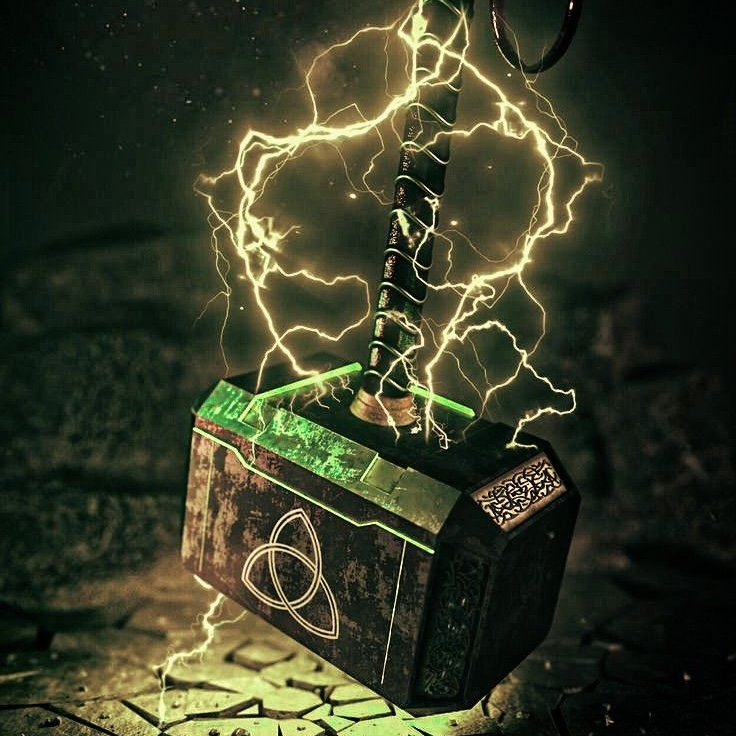
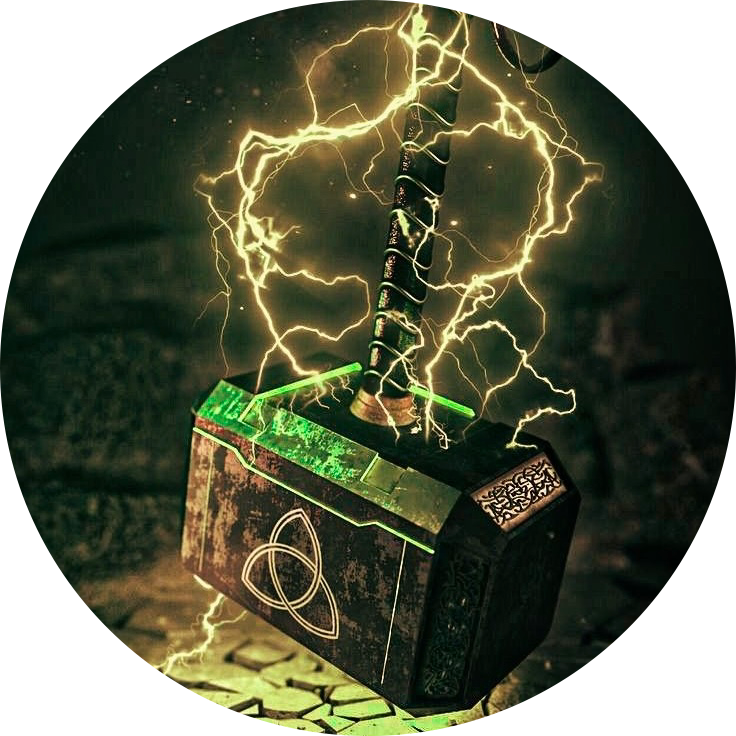
Add files via upload

diff --git a/app.py b/app.py
@@ -41,14 +41,6 @@ bg_base64 = base64.b64encode(buffered_bg.getvalue()).decode()
 # === LOGO ===
 logo_image = Image.open("banner_martello.jpg")
 
-# === CROP AUTOMATICO PER OTTENERE UN QUADRATO ===
-width, height = logo_image.size
-min_dim = min(width, height)
-left = (width - min_dim) // 2
-top = (height - min_dim) // 2
-right = (width + min_dim) // 2
-bottom = (height + min_dim) // 2
-logo_image = logo_image.crop((left, top, right, bottom))
 
 # === CONVERSIONE ===
 buffered_logo = BytesIO()
